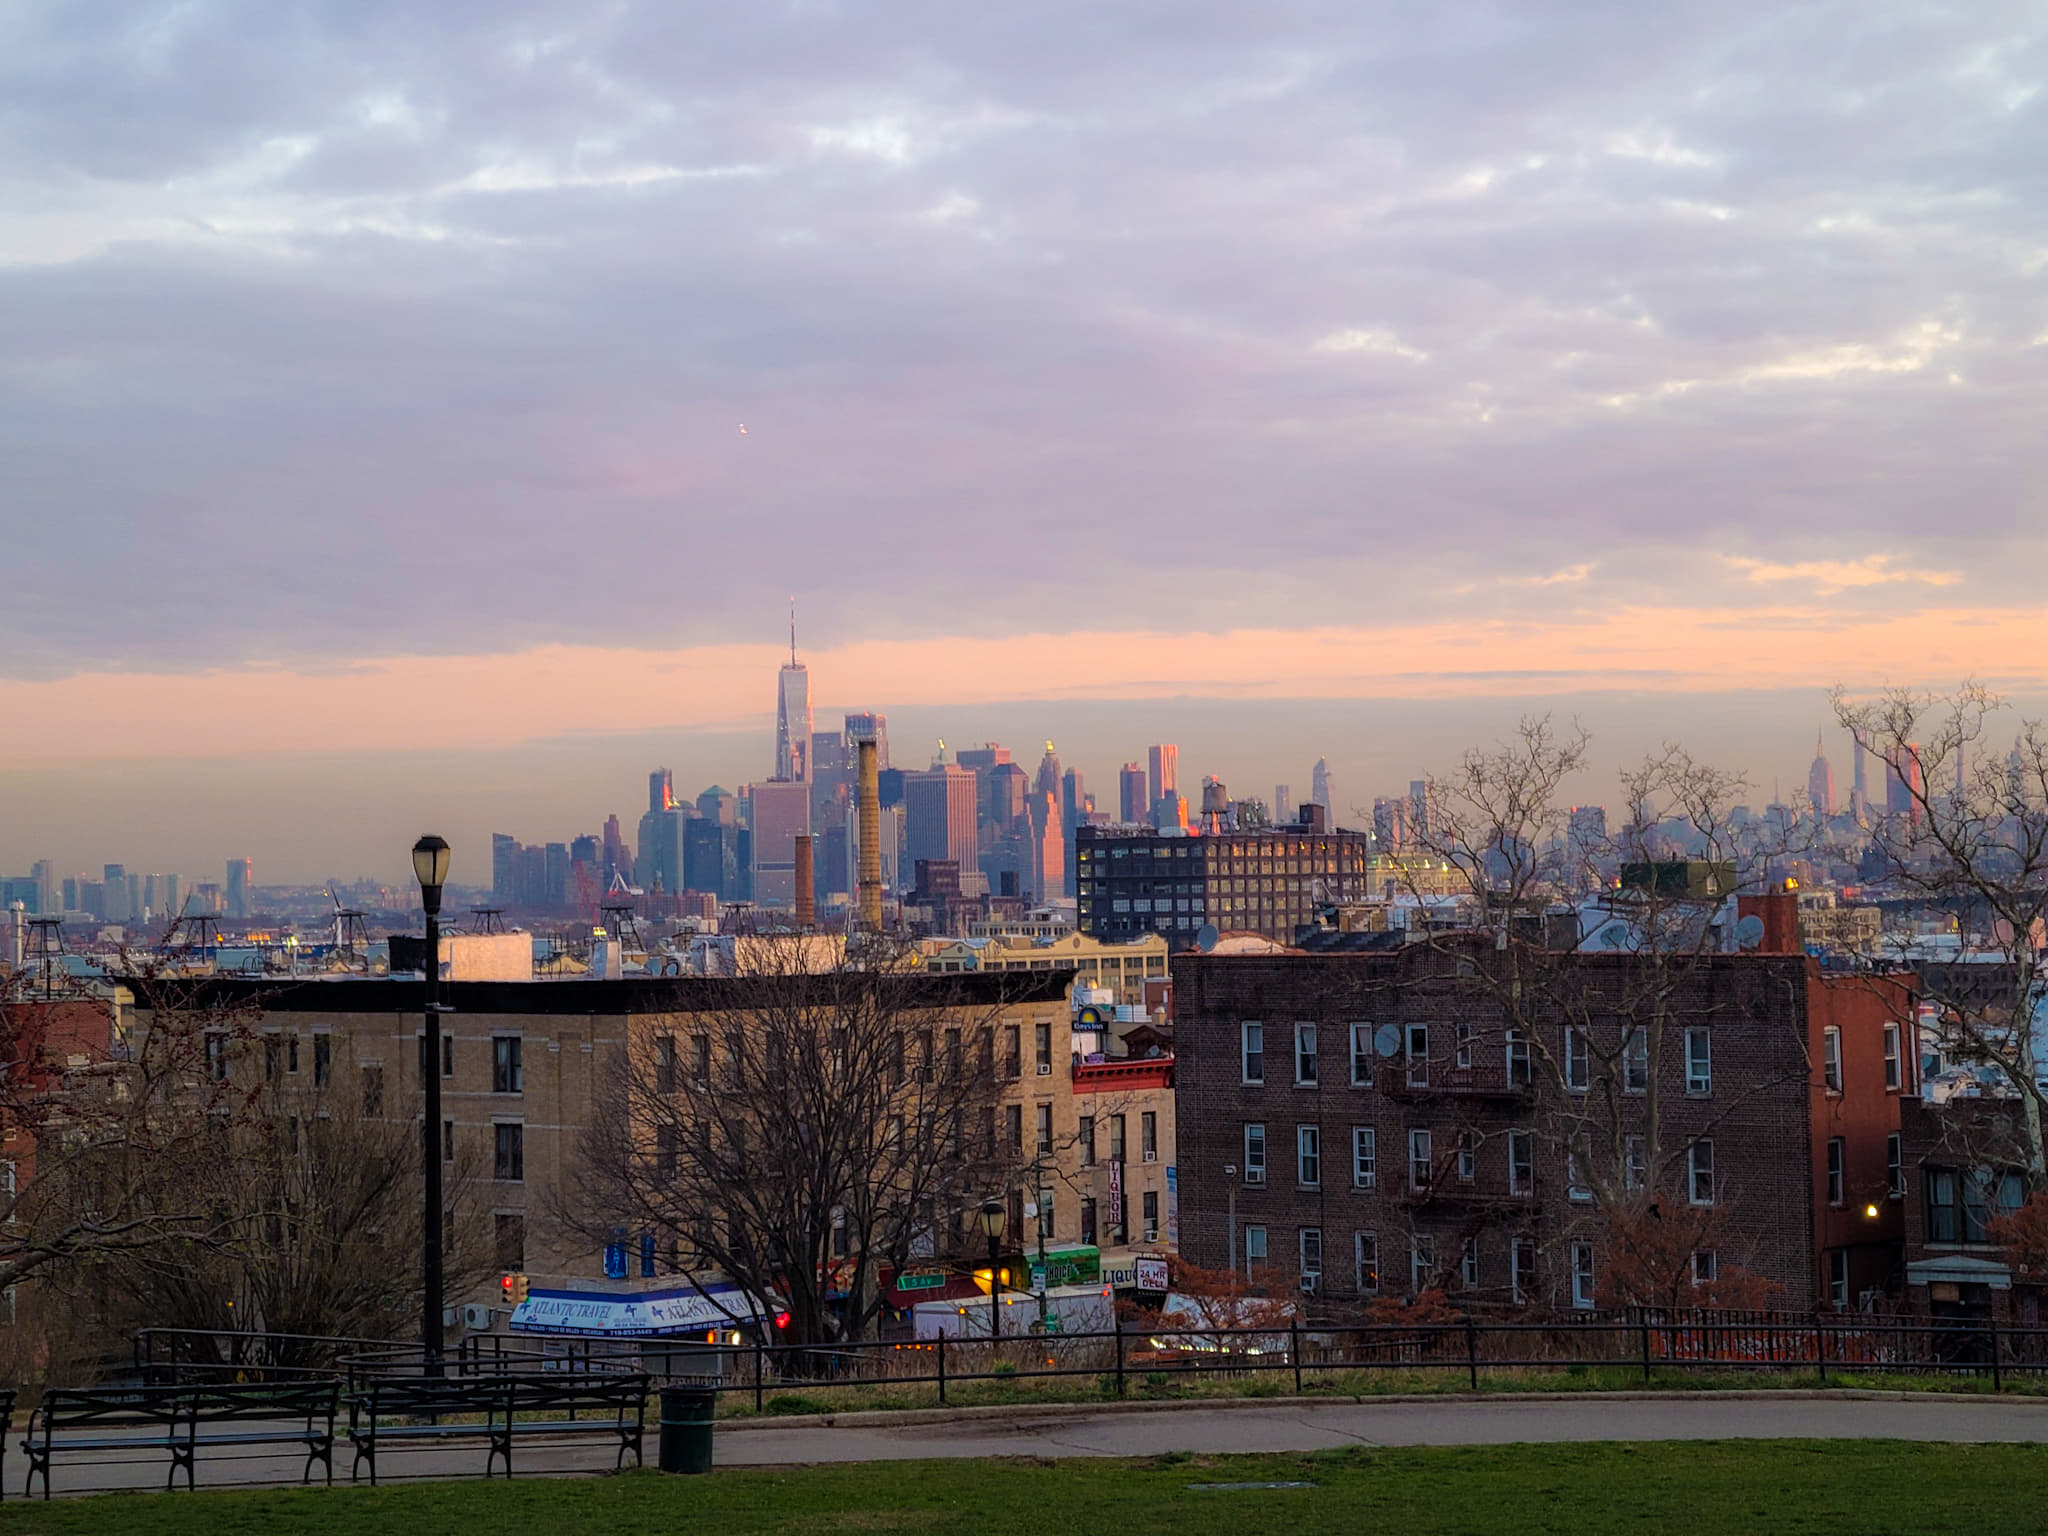
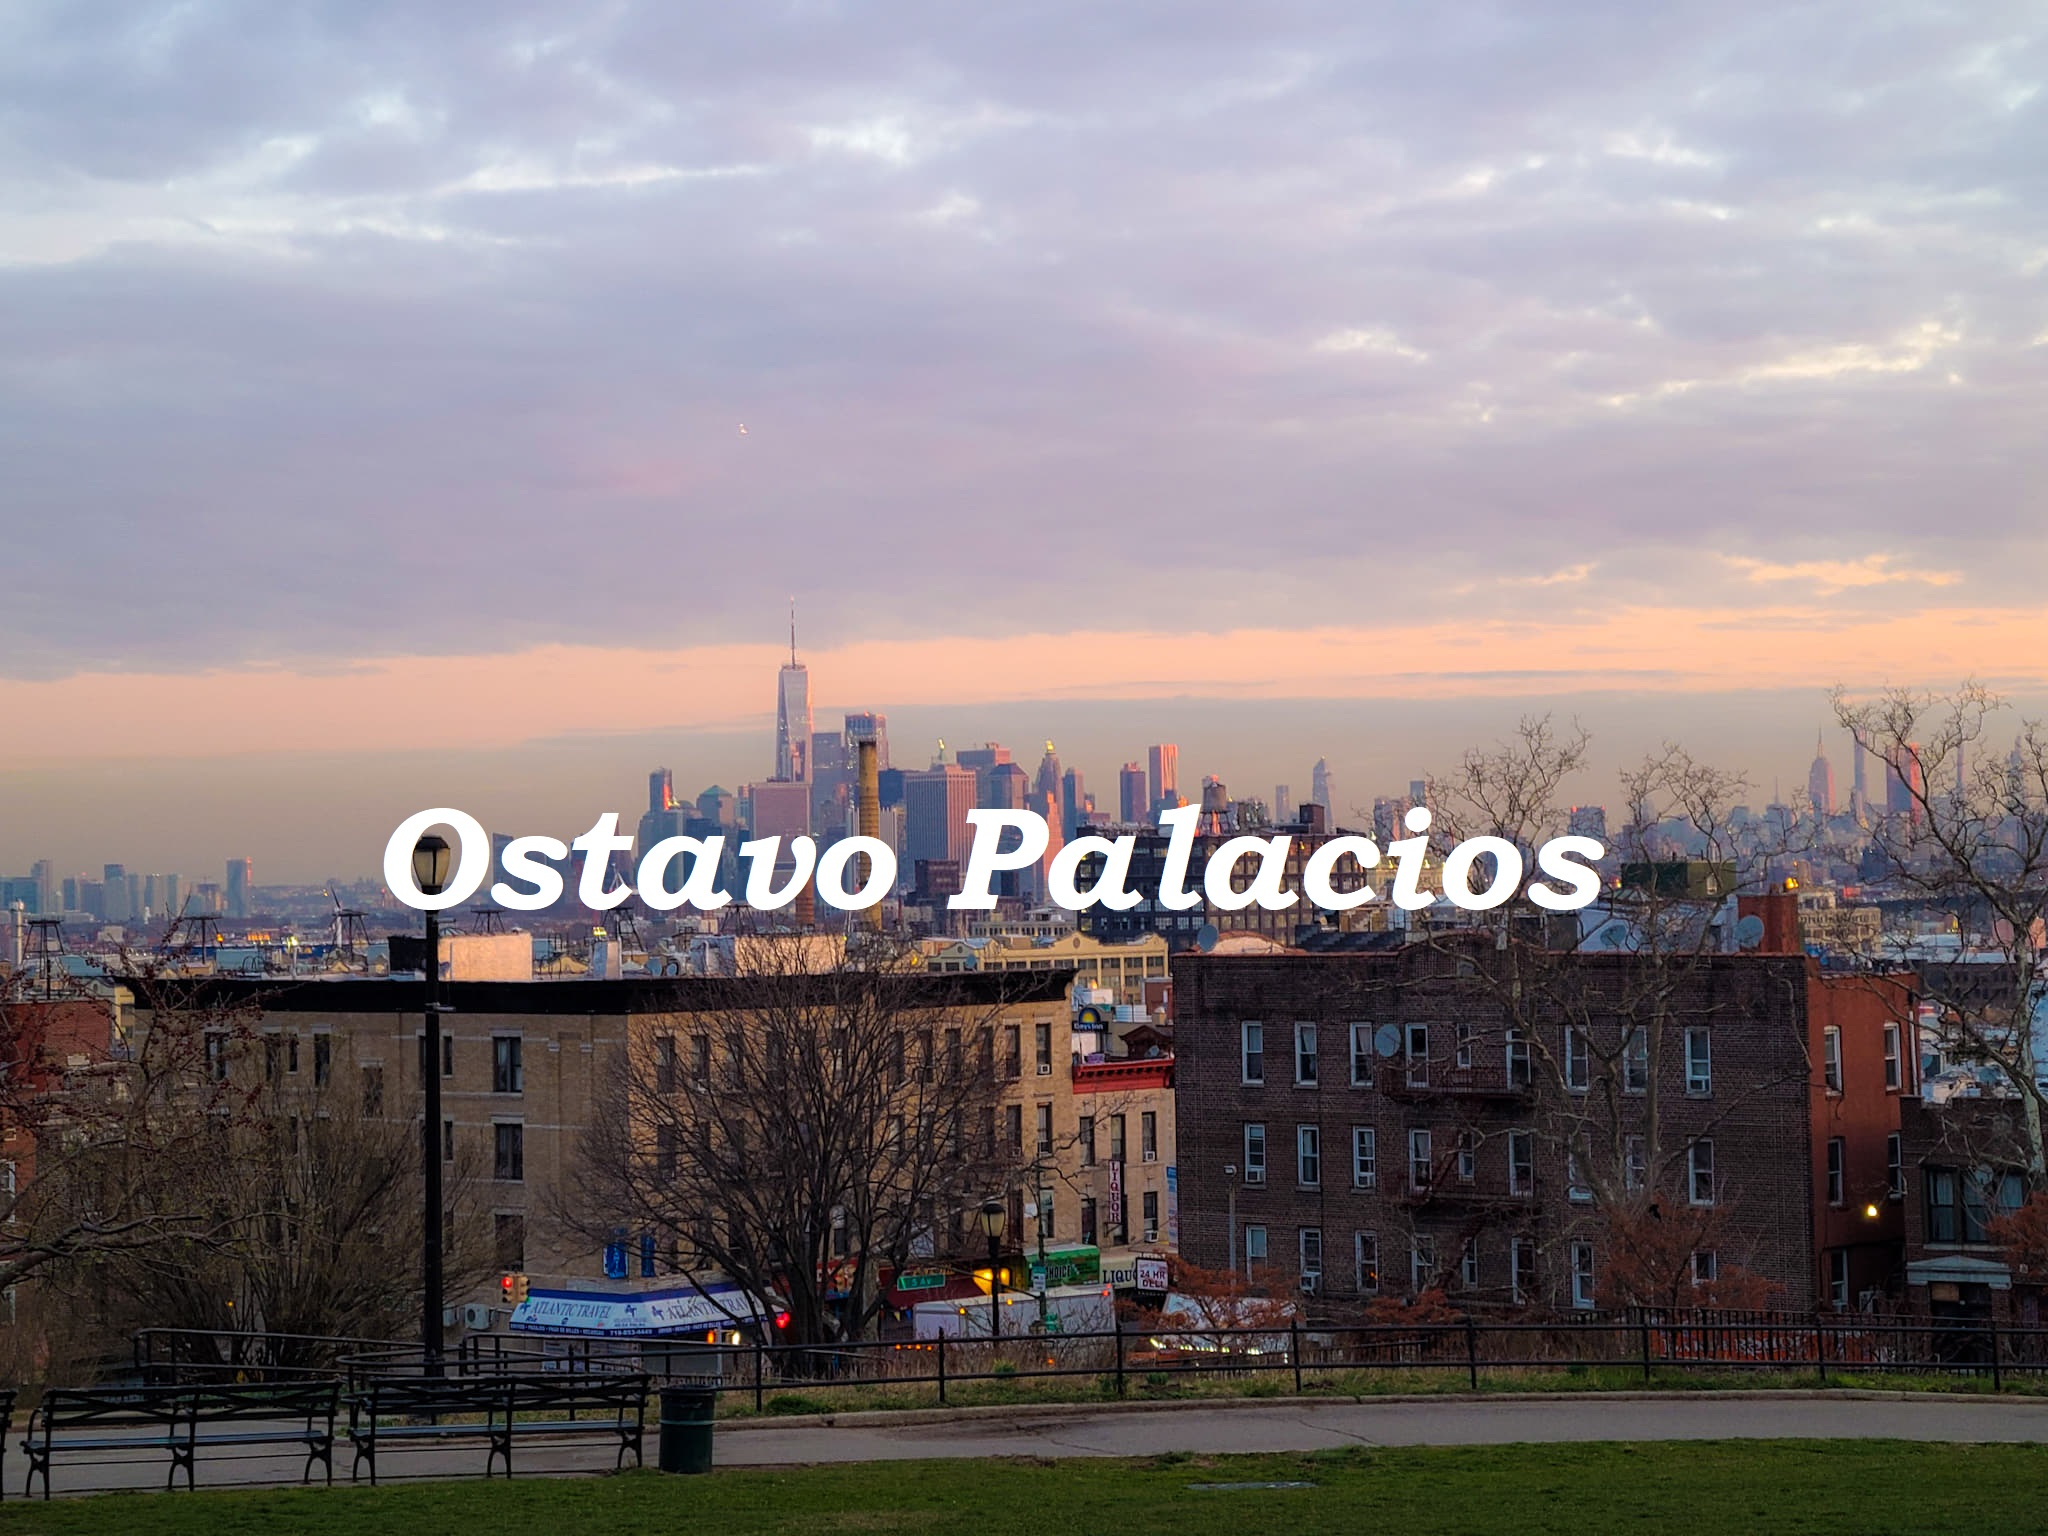
css style edits

Changed region(s): [[0.4688, 0.5, 0.7812, 0.5938], [0.1875, 0.5312, 0.4375, 0.5938]]

diff --git a/my-app-page/src/Main.jsx b/my-app-page/src/Main.jsx
@@ -3,7 +3,7 @@ import React from "react";
 import Resume from "./Ostavo-Palacios-Resume.pdf";
 //Images
 import logo from "./Pictures/Pfp.jpg";
-import banner from "./Pictures/SunsetParkBanner.jpg";
+import SunsetParkBanner from "./Pictures/SunsetParkBanner.jpg";
 
 //Installed Components
 import AnchorLink from "react-anchor-link-smooth-scroll";
@@ -17,10 +17,15 @@ import ProjectExperience from "./projectExperience";
 
 //CSS
 import "./Main.css";
+import AOS from 'aos';
+import "aos/dist/aos.css";
+
+
+
 function Contact() {
   return (
     <React.Fragment>
-      <div className="title-fitting">
+      <div className="title-fitting" data-aos="fade-down">
         <h2>Contact</h2>
         <div className="info-list">
           <ul className="no-bullets">
@@ -81,22 +86,23 @@ function Lists() {
   );
 }
 function Main() {
+  AOS.init({
+    duration : 1200
+});
   return (
     <React.Fragment>
-      <div className="banner">
-        {" "}
-        <h2>Ostavo Palacios</h2>
+      <div className="Title">
+          <img src={SunsetParkBanner} className="banner" data-aos="zoom-out"/>  
       </div>
       <header className="header">
         <div>
           <div className="intro standard-fitting">
-            <div className="title standard-fitting">
-              <div className="banner"></div>
-              <h2>Ostavo Palacios</h2>
+            <div className="title standard-fitting">              
               <img
                 src={logo}
                 alt="Ostavo"
                 className="profile-picture standard-fitting "
+                data-aos="zoom-in"
               ></img>
             </div>
             <div>
@@ -119,7 +125,7 @@ function Main() {
             </div>
           </div>
           <div className="my-info">
-            <section id="Contact">
+            <section id="Contact" data-AOS="fade-down">
               <Contact />
             </section>
             <section id="WorkExperience">

diff --git a/my-app-page/src/mapInfo.jsx b/my-app-page/src/mapInfo.jsx
@@ -20,19 +20,21 @@ export default function mapInfo(props) {
 
   return (
     <React.Fragment>
-      <div className="mobileCss">
+      <div className="mobileCss" >
         {props.infoList.map(il => (
-          <div className="info-list title-fitting" key={il.id}>
+          <div className="info-list title-fitting" key={il.id} data-aos="fade-down">
             <div>
               <a href={il.Link}>
-                <img className="info-pic" src={il.Picture} alt={il.Alt}></img>
+                <img className="info-pic" src={il.Picture} alt={il.Alt} data-aos="fade-left"></img>
               </a>
             </div>
-            <h3>{il.JobName}</h3>
-            <h4>{il.Title}</h4>
-            <h4>Year: {il.Year}</h4>
-            {checkLanguage(il.Language)}
+            <div data-aos="fade-right">
+              <h3>{il.JobName}</h3>
+              <h4>{il.Title}</h4>
+              <h4>Year: {il.Year}</h4>
+              {checkLanguage(il.Language)}
             {/* {checklanguage()} */}
+            </div>
             <div className="text bullet-list standard-fitting">
               <ul>
                 {props.infoList[il.id].About.map(a => (

diff --git a/my-app-page/src/Main.css b/my-app-page/src/Main.css
@@ -2,17 +2,22 @@
   background-color: white;
   margin: auto;
   padding: 30px;
+  padding-bottom: 0px;
   text-align: center;
   color: black;
 }
 .banner {
-  /* width: 100%; */
-  background-image: url("Pictures/SunsetParkBanner.jpg");
-  background-repeat: no-repeat;
-  background: yellow;
-  /* max-height: 90vh; */
-  /* margin-top: -90px; */
+  text-align: center;
+  width: 80%;
+  max-height: 70vh;
+  min-width: 80%;
+  padding: 20px;
 }
+.Title{
+  text-align: center;
+}
+
+
 .text {
   /* background: maroon; */
   border-radius: 30px;
@@ -140,13 +145,12 @@ h4 {
   }
   .title {
     float: left;
+    text-align: center;
     /* clear: both; */
     /* border: solid; */
   }
   .profile-picture {
-    width: 30vh;
-    height: 40vh;
-    border-radius: 300px;
+
     /* border: solid; */
   }
   .intro {
@@ -207,7 +211,7 @@ h4 {
   }
 }
 
-@media screen and (max-width: 1088px) {
+@media screen and (max-width: 1233px) {
   /* Large phone and tablet */
   .header {
     margin: auto;

diff --git a/my-app-page/src/App.css b/my-app-page/src/App.css
@@ -14,7 +14,7 @@
 }
 
 .App-header {
-  background-color: #282c34;
+  /* background-color: #282c34; */
   min-height: 100vh;
   /* display: flex;
   flex-direction: column;
